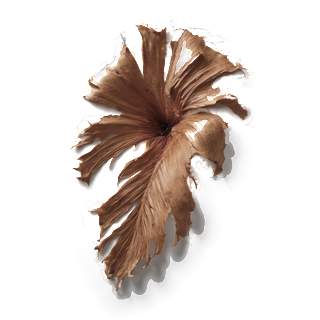
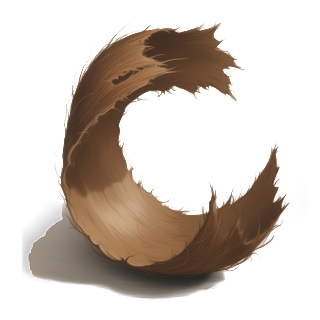
feat(art): ココナッツの派生画像をQwen Image Editで基準の実から作る
別々に生成していた加工段階を、丸ごとの実（seed 40201）の生データから派生させる
編集レシピ（edit キー）に置き換え、まず皮を剥いだ実と剥いだ皮を差し替える。

diff --git a/tools/comfyui/build.py b/tools/comfyui/build.py
@@ -6,7 +6,8 @@
     python build.py recipes/rocky_field_fixture.json
 
 後処理はレシピが postprocess を持つならレーンの背景として（postprocess.py）、cardArt を持つなら
-カードの絵として（card_art.py）扱う。
+カードの絵として（card_art.py）扱う。edit を持つレシピは、生成の代わりに別レシピの生データを
+基準にした Qwen Image Edit で生データを作る（README「既存の絵からの派生」節）。
 
 --keep-raw を付けると、後処理前の生成物を残す（プロンプトを詰め直すときに見比べられる）。
 ComfyUIは要るが、起動していなければこちらで起動する。
@@ -62,6 +63,59 @@ def restart_server(server: str) -> None:
     raise SystemExit("ComfyUIが起動しません")
 
 
+def base_workflow(recipe: dict, recipes_dir: Path) -> str:
+    """editの連鎖を根まで辿り、生成に使うワークフロー名を返す。"""
+    while "edit" in recipe:
+        recipe = json.loads((recipes_dir / recipe["edit"]["source"]).read_text("utf-8"))
+    return recipe["workflow"]
+
+
+def produce_raw(recipe: dict, recipes_dir: Path, raw_dir: Path, server: str) -> Path:
+    """レシピの生データ（後処理前の絵）を作り、そのパスを返す。
+
+    edit を持つレシピは source の生データを先に作り、それを基準に Qwen Image Edit で
+    派生させる（実 → 皮を剥いだ実 → … のような連鎖はここの再帰で解決される）。
+    """
+    edit = recipe.get("edit")
+    if edit is not None:
+        source = json.loads((recipes_dir / edit["source"]).read_text("utf-8"))
+        source_raw = produce_raw(source, recipes_dir, raw_dir, server)
+        edited = raw_dir / f"{Path(recipe['output']).stem}_edit_{edit['seed']}.png"
+        run(
+            "qwen_edit.py",
+            [
+                str(source_raw),
+                "--out", str(edited),
+                "--prompt", edit["prompt"],
+                "--seed", str(edit["seed"]),
+                "--server", server,
+            ],
+        )
+        return edited
+
+    run(
+        "generate.py",
+        [
+            recipe["prompt"],
+            "--out", str(raw_dir),
+            "--seed", str(recipe["seed"]),
+            "--width", str(recipe["width"]),
+            "--height", str(recipe["height"]),
+            "--workflow", recipe["workflow"],
+            *(["--prompts", recipe["prompts"]] if recipe.get("prompts") else []),
+            *(["--lora", recipe["lora"]] if recipe.get("lora") else []),
+            # 0は「LoRAを効かせない」という指定なので、getの真偽で見てはいけない。
+            *(["--lora-strength", str(recipe["loraStrength"])] if "loraStrength" in recipe else []),
+            *(["--no-trigger"] if recipe.get("noTrigger") else []),
+            "--server", server,
+        ],
+    )
+    raw = raw_dir / f"{recipe['prompt']}_{recipe['seed']}.png"
+    if not raw.exists():
+        raise SystemExit(f"生成物が見つかりません: {raw}")
+    return raw
+
+
 def ensure_fresh_process(workflow: str, server: str) -> None:
     """タイリングを使う生成と使わない生成が同じプロセスに混ざらないようにする。
 
@@ -83,35 +137,16 @@ def main() -> None:
     parser.add_argument("--server", default="http://127.0.0.1:8188")
     args = parser.parse_args()
 
-    recipe = json.loads(Path(args.recipe).read_text("utf-8"))
+    recipe_path = Path(args.recipe)
+    recipe = json.loads(recipe_path.read_text("utf-8"))
+    recipes_dir = recipe_path.resolve().parent
     output = REPO / recipe["output"]
-    workflow = recipe["workflow"]
-    ensure_fresh_process(workflow, args.server)
+    ensure_fresh_process(base_workflow(recipe, recipes_dir), args.server)
 
     with tempfile.TemporaryDirectory() as tmp:
         raw_dir = Path(args.keep_raw) if args.keep_raw else Path(tmp)
         raw_dir.mkdir(parents=True, exist_ok=True)
-
-        run(
-            "generate.py",
-            [
-                recipe["prompt"],
-                "--out", str(raw_dir),
-                "--seed", str(recipe["seed"]),
-                "--width", str(recipe["width"]),
-                "--height", str(recipe["height"]),
-                "--workflow", workflow,
-                *(["--prompts", recipe["prompts"]] if recipe.get("prompts") else []),
-                *(["--lora", recipe["lora"]] if recipe.get("lora") else []),
-                # 0は「LoRAを効かせない」という指定なので、getの真偽で見てはいけない。
-                *(["--lora-strength", str(recipe["loraStrength"])] if "loraStrength" in recipe else []),
-                *(["--no-trigger"] if recipe.get("noTrigger") else []),
-                "--server", args.server,
-            ],
-        )
-        raw = raw_dir / f"{recipe['prompt']}_{recipe['seed']}.png"
-        if not raw.exists():
-            raise SystemExit(f"生成物が見つかりません: {raw}")
+        raw = produce_raw(recipe, recipes_dir, raw_dir, args.server)
 
         # 後処理の設定は絵の隣ではなくレシピ側が持つので、書き出された .json は捨ててよい。
         processed = raw_dir / f"{raw.stem}_processed.png"

diff --git a/tools/comfyui/qwen_edit.py b/tools/comfyui/qwen_edit.py
@@ -1,0 +1,84 @@
+"""Qwen Image Edit 2511 で、既存の絵から派生画像を1枚作る。
+
+入力画像を ComfyUI の /upload/image へ上げ、workflows/qwen_image_edit_2511.api.json に
+プロンプトと seed を差し込んで /prompt へ投げる。標準ライブラリだけで動く。
+
+    python qwen_edit.py <入力PNG> --out <出力PNG> --prompt "<英語の編集指示>" --seed 1
+
+同一プロセス・同一入力・同一 seed なら同じ絵が返る。使い方の全体は README.md を参照。
+"""
+
+from __future__ import annotations
+
+import argparse
+import json
+import time
+import urllib.request
+import uuid
+from pathlib import Path
+
+from generate import DEFAULT_SERVER, download, fill, post_prompt, wait_for_images
+
+HERE = Path(__file__).resolve().parent
+WORKFLOW = "qwen_image_edit_2511.api.json"
+
+
+def upload_image(server: str, path: Path) -> str:
+    """入力画像をComfyUIへ上げ、LoadImageに渡すファイル名を返す。"""
+    boundary = uuid.uuid4().hex
+    body = b"".join(
+        [
+            f"--{boundary}\r\n".encode(),
+            b'Content-Disposition: form-data; name="overwrite"\r\n\r\ntrue\r\n',
+            f"--{boundary}\r\n".encode(),
+            f'Content-Disposition: form-data; name="image"; filename="{path.name}"\r\n'.encode(),
+            b"Content-Type: image/png\r\n\r\n",
+            path.read_bytes(),
+            f"\r\n--{boundary}--\r\n".encode(),
+        ]
+    )
+    request = urllib.request.Request(
+        f"{server}/upload/image",
+        body,
+        {"Content-Type": f"multipart/form-data; boundary={boundary}"},
+    )
+    with urllib.request.urlopen(request) as response:
+        return json.load(response)["name"]
+
+
+def main() -> None:
+    parser = argparse.ArgumentParser(description=__doc__)
+    parser.add_argument("input", help="基準にする画像（生成の生データなど）")
+    parser.add_argument("--out", required=True, help="PNGの保存先ファイル")
+    parser.add_argument("--prompt", required=True, help="編集指示（英語）")
+    parser.add_argument("--seed", type=int, required=True)
+    parser.add_argument("--server", default=DEFAULT_SERVER)
+    parser.add_argument("--timeout", type=float, default=900)
+    args = parser.parse_args()
+
+    template = json.loads((HERE / "workflows" / WORKFLOW).read_text("utf-8"))
+    image_name = upload_image(args.server, Path(args.input))
+    workflow = fill(
+        template,
+        {
+            "image": image_name,
+            "prompt": args.prompt,
+            "seed": args.seed,
+            "prefix": "unmapped-island/qwen_edit",
+        },
+    )
+
+    print(f"seed={args.seed} 編集中...")
+    started = time.time()
+    prompt_id = post_prompt(args.server, workflow)
+    images = wait_for_images(args.server, prompt_id, args.timeout)
+    print(f"    {time.time() - started:.0f}秒で完了")
+
+    out = Path(args.out)
+    out.parent.mkdir(parents=True, exist_ok=True)
+    download(args.server, images[0], out)
+    print(f"    -> {out}")
+
+
+if __name__ == "__main__":
+    main()

diff --git a/tools/comfyui/README.md b/tools/comfyui/README.md
@@ -71,6 +71,38 @@ python build.py recipes/medic.json
 
 物ごとの当たり外れ（どの語がどう外すか）は `prompts/objects.json` の各エントリに書いてあります。
 
+### 既存の絵からの派生（Qwen Image Edit）
+
+同じ物の加工段階（ココナッツ → 皮を剥いだ実 → 剥いだ皮…）を別々に生成すると、色調も作風も
+個体も揃いません。基準の 1 枚から Qwen Image Edit 2511 で派生させると、同じ個体の連鎖として
+描けます。レシピは生成の指定の代わりに `edit` を持ちます。
+
+```json
+"edit": {
+  "source": "coconut.json",
+  "prompt": "Remove the smooth outer husk from this coconut. ...",
+  "seed": 1
+}
+```
+
+`source` は基準にするレシピ（同じ `recipes/` 内）。build.py が source の生データを先に作り、
+`qwen_edit.py` で編集します。source が edit を持つ連鎖も再帰的に解決されます。プロンプトには
+変化の内容に加えて、作風・背景・光・影を保つ指示を入れます（recipes/husked_coconut.json 参照）。
+
+モデルは ComfyUI の `models/` 配下に次の 3 点が要ります（Comfy-Org の Hugging Face リポジトリ
+Qwen-Image-Edit_ComfyUI / Qwen-Image_ComfyUI から取得。計約 28GB）。ノードは ComfyUI 本体に
+入っているので追加インストールは不要です。
+
+```
+diffusion_models/qwen_image_edit_2511_fp8mixed.safetensors
+text_encoders/qwen_2.5_vl_7b_fp8_scaled.safetensors
+vae/qwen_image_vae.safetensors
+```
+
+ライセンスは Apache 2.0 で、生成画像の商用利用に制限はありません。1 枚あたり 90 秒ほど
+かかります（VRAM 16GB では一部が RAM へ退避されるため）。SDXL の生成と違い LoRA も
+ネガティブも使いません。
+
 ## カードの枠
 
 ```bash
